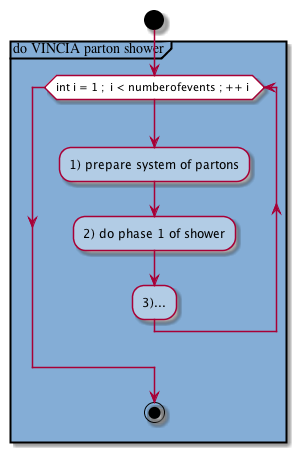
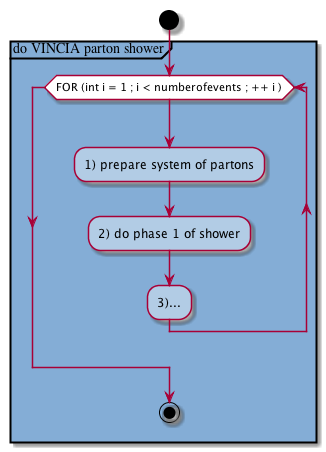
- Solved bug in FOR loop condition.

diff --git a/EXAMPLE/flowdoc/source1.html b/EXAMPLE/flowdoc/source1.html
@@ -7,14 +7,7 @@
     
     <body>
     <hr><hr><hr><p>VOID VINCIAPARENT::shower()</p><a name="#cCVINCIAPARENTFshower"></a>
-      <ul class="tabs" data-persist="true">
-        <li><a href="#view_cCVINCIAPARENTFshower ">zoom</a></li>
-        <li><a href="#view1_cCVINCIAPARENTFshower ">zoom1</a></li>
-      </ul>
-      <div class="tabcontents"> 
-        <div id="view_cCVINCIAPARENTFshower "><img src="aux_files/cCVINCIAPARENTFshower.png "> </div>
-        <div id="view1_cCVINCIAPARENTFshower "><img src="aux_files/cCVINCIAPARENTFshower1.png "> </div>
-      </div>
+          <img src="aux_files/cCVINCIAPARENTFshower.png "> 
     <hr><hr><hr><p>VOID VINCIA::shower()</p><a name="#cCVINCIAFshower"></a>
       <ul class="tabs" data-persist="true">
         <li><a href="#view_cCVINCIAFshower ">zoom</a></li>

diff --git a/makeflows.py b/makeflows.py
@@ -778,10 +778,13 @@ def process_find_functions(node, MAX_diagram_zoomlevel):
                         string_tmp[write_zoomlevel] += '\n' + indentation_level * tab + 'repeat''\n'
                     # 209: A for statement.
                     elif looptypeArray[IdxLoopbeginlineArray] == 209:
-                        string_condition = ' '.join(
-                            t.spelling.decode("utf-8") for t in list(node.get_children())[0].get_tokens())[:-1]+' '+' '.join(
+                        #the '0','1','2' children of the node contain the spellings of the three elements of the FOR loop. 
+                        #We have to call the command get_tokens, which produces an iterator over all tokens and then join them into the same string.
+                        #However, for the '0' and '2' children, we don't want the last token. We have first to convert the iterator into a list and then use [:-1]
+                        string_condition = 'FOR ('+' '.join(
+                            t.spelling.decode("utf-8") for t in list(list(node.get_children())[0].get_tokens())[:-1])+' '+' '.join(
                             t.spelling.decode("utf-8") for t in list(node.get_children())[1].get_tokens())+' '+' '.join(
-                            t.spelling.decode("utf-8") for t in list(node.get_children())[2].get_tokens())[:-1]
+                            t.spelling.decode("utf-8") for t in list(list(node.get_children())[2].get_tokens())[:-1])+' )'
                         string_tmp[
                             write_zoomlevel] += '\n' + indentation_level * tab + 'while (' + string_condition + ')''\n'
                 # mark } endloop to be written in string
